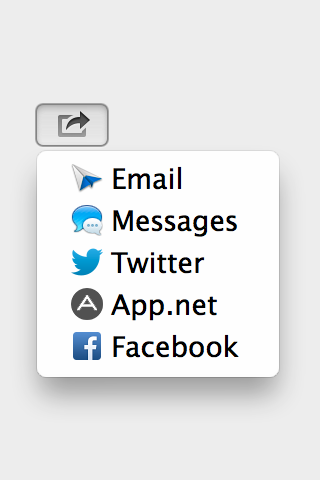
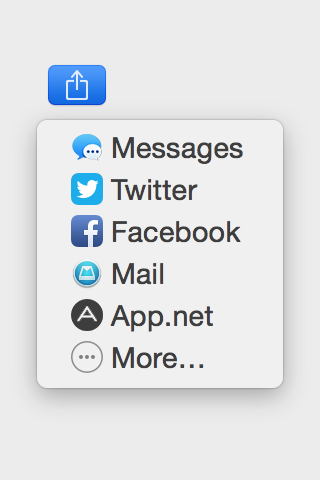
General updates

Changed region(s): [[0.0938, 0.125, 0.9062, 0.8125]]

diff --git a/SJADNShareController.m b/SJADNShareController.m
@@ -16,10 +16,6 @@
     return self;
 }
 
-- (NSString*)encodeToPercentEscapeString:(NSString *)string {
-    return (__bridge NSString *)CFURLCreateStringByAddingPercentEscapes(NULL, (CFStringRef)string, NULL, (CFStringRef)@"!*'();:@&=+$,/?%#[]", kCFStringEncodingUTF8);
-}
-
 //NSSharingServicePickerDelegate method to insert App.net option
 - (NSArray*)sharingServicePicker:(NSSharingServicePicker *)sharingServicePicker sharingServicesForItems:(NSArray *)items proposedSharingServices:(NSArray *)proposedServices {
     
@@ -34,7 +30,7 @@
         
     }];
     
-    [sharingServices insertObject:ADNService atIndex:3];
+    [sharingServices insertObject:ADNService atIndex:sharingServices.count];
     
     return sharingServices;
 }
@@ -50,19 +46,16 @@
     }
     
     //Encode the post text, for URLs
-    NSString *encodedPostText = [self encodeToPercentEscapeString:postText];
+    NSString *encodedPostText = (__bridge NSString *)CFURLCreateStringByAddingPercentEscapes(NULL, (CFStringRef)postText, NULL, (CFStringRef)@"!*'();:@&=+$,/?%#[]", kCFStringEncodingUTF8);
     
     BOOL shared = NO;
     if (_shareViaLocalApps) {
         //Try to share with local apps
         shared = [self shareWithApps:encodedPostText];
-        
-        //If unable to share with apps, share on web
-        if (!shared) [self shareWithWeb:encodedPostText];
-    } else {
-        //Share on web
-        shared = [self shareWithWeb:encodedPostText];
     }
+    
+    //Share on web
+    if (!shared) [self shareWithWeb:encodedPostText];
 }
 
 - (BOOL)shareWithApps:(NSString*)encodedPostText {

diff --git a/SJADNShareController.h b/SJADNShareController.h
@@ -3,12 +3,12 @@
 
 // Seb Jachec
 
-#import <Foundation/Foundation.h>
+#import <Cocoa/Cocoa.h>
 
 @interface SJADNShareController : NSObject <NSSharingServicePickerDelegate>
 
 //If YES, share controller will try to use Mac app URL schemes
-@property BOOL *shareViaLocalApps;
+@property BOOL shareViaLocalApps;
 
 /*
  * Shares the given items on App.net
